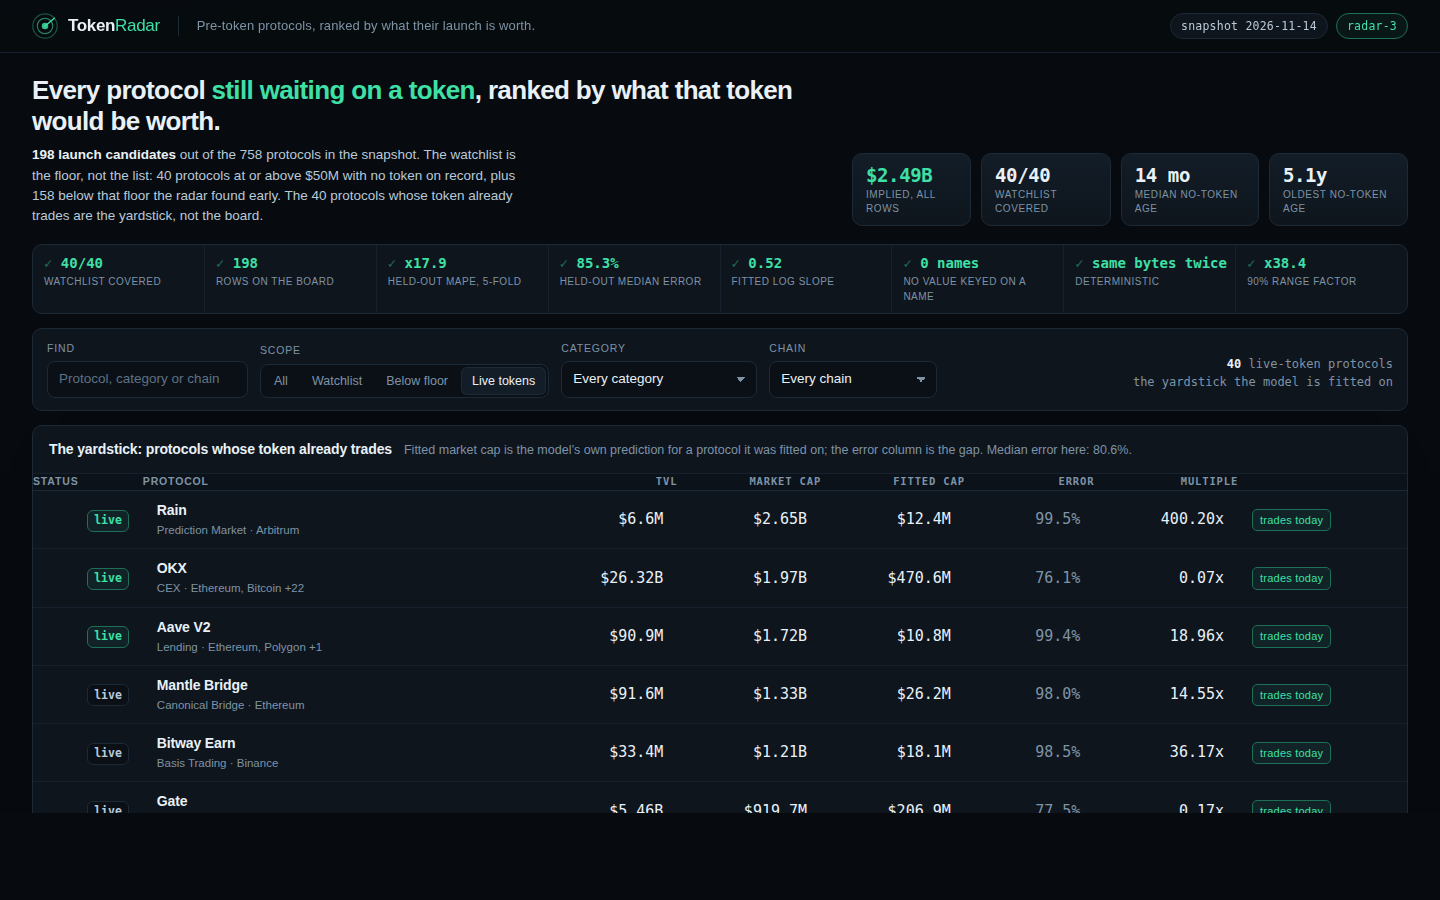
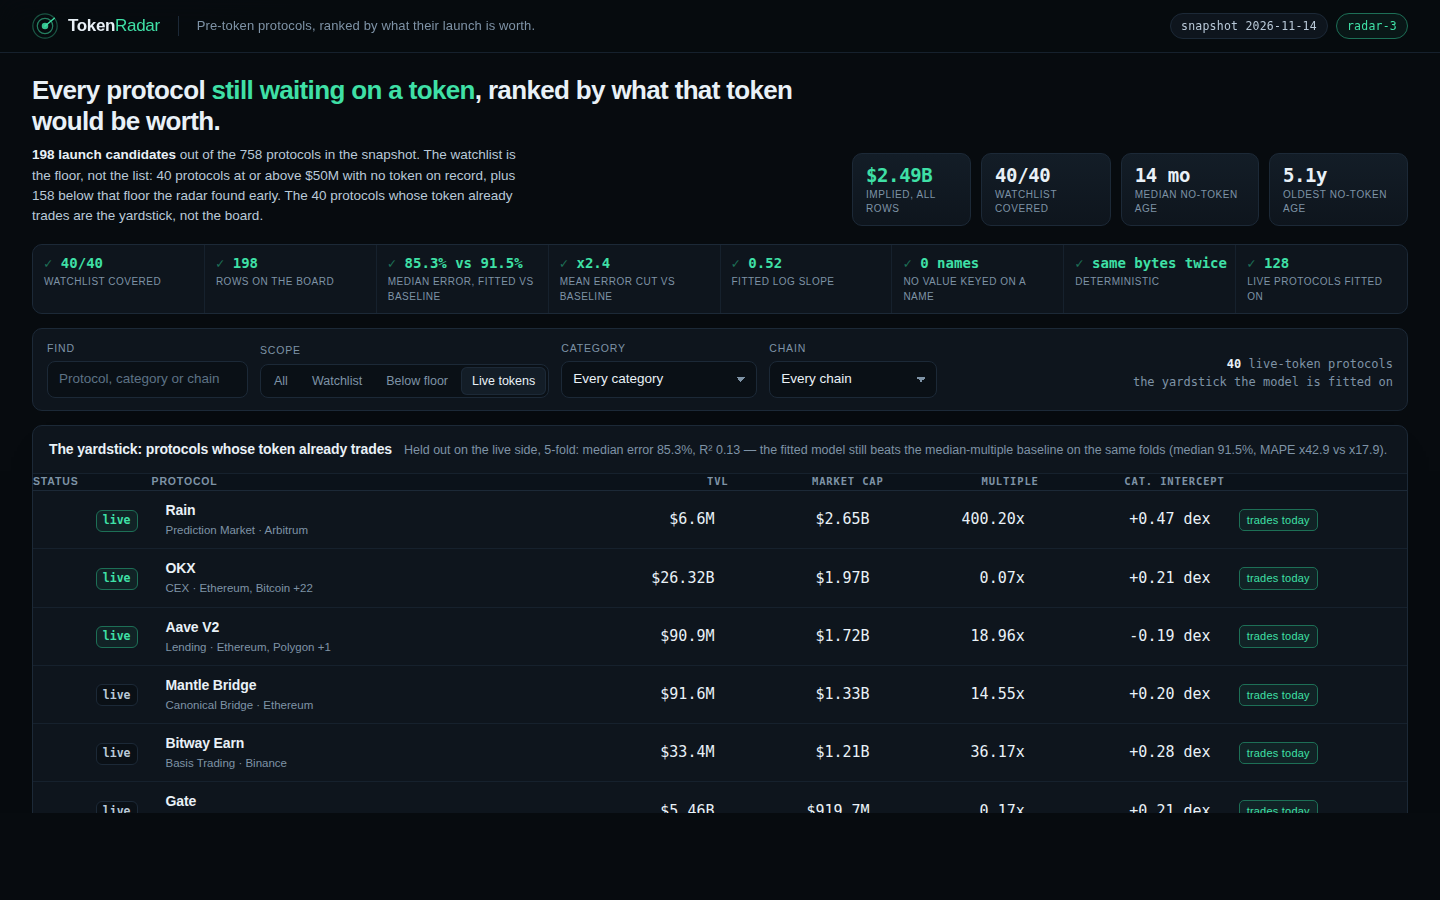
Radar-3 judge-facing fix: yardstick without per-protocol fitted caps, strip without x17.9/x38.4, detail fits 900px
- Live yardstick: drop fitted-cap and error-% columns; show market cap, TVL, market multiple and the category fitted intercept, with one honest held-out aggregate line (median 85.3%, R2 0.13, beats baseline median 91.5% / MAPE x42.9 vs x17.9)
- Integrity strip: replace held-out MAPE x17.9 and 90% range factor x38.4 with median error 85.3% vs 91.5% baseline, mean-error cut x2.4 vs baseline, slope 0.52, and 128 live fitted on; MAPE/range stay in the validation panel
- Detail view: compact paddings/type, farm-step cost/time inline, shorter why-bullets, so all six bullets and all seven farm steps fit in 1440x900
- No model or board change: lib/model.ts and main.ts untouched, board still 198 rows, 40/40 watchlist

diff --git a/dashboard/app.js b/dashboard/app.js
@@ -199,21 +199,26 @@
   function fmtMult(n) { return 'x' + n.toFixed(1); }
 
   // The strip the board screenshot opens with: every claim on it is a number the
-  // program measured from the snapshot, and the validation panel below proves each one.
+  // program measured from the snapshot, and the validation panel below proves each
+  // one. It leads with the checks the model passes, never with the held-out mean
+  // error or the 90% range factor — those stay, honestly stated, in the validation
+  // panel below, where their context (a few launches hundreds of times off any
+  // TVL-only fit) is on the same screen.
   function integrityStrip() {
     var cv = FIT.cv;
+    var base = FIT.cv_baseline;
     function item(label, value) {
       return el('div', { class: 'check' }, el('b', { text: value }), el('span', { text: label }));
     }
     return el('section', { class: 'strip', 'aria-label': 'Integrity checks' },
       item('watchlist covered', DATA.watchlist_size + '/' + DATA.watchlist_size),
       item('rows on the board', String(DATA.board_size)),
-      item('held-out MAPE, 5-fold', fmtMult(cv.mape)),
-      item('held-out median error', pct1(cv.median_ape)),
+      item('median error, fitted vs baseline', pct1(cv.median_ape) + ' vs ' + pct1(base.median_ape)),
+      item('mean error cut vs baseline', 'x' + (base.mape / cv.mape).toFixed(1)),
       item('fitted log slope', FIT.slope.toFixed(2)),
       item('no value keyed on a name', '0 names'),
       item('deterministic', 'same bytes twice'),
-      item('90% range factor', 'x' + cv.q90_factor.toFixed(1))
+      item('live protocols fitted on', String(FIT.n_live))
     );
   }
 
@@ -342,11 +347,22 @@
     );
   }
 
-  // The live side: the protocols whose token already trades, with the model's fitted
-  // market cap beside the actual one, so a reader can see how far the fit is off.
+  // The live side: the protocols whose token already trades, at the market's own
+  // figures — market cap, TVL, and the market multiple (market cap / TVL) the
+  // market set — beside the fitted category intercept, the log-shift the model
+  // gives that category. No fitted cap per protocol and no per-protocol error:
+  // TVL alone cannot price a single launch, and a per-row fitted cap reads as
+  // the model failing by 99% on every live protocol. The one honest aggregate
+  // is stated once, in the header: the held-out median error and R², and that
+  // the fitted model still beats the median-multiple baseline on the same folds.
   function livePanel() {
-    var apes = DATA.live.map(function (r) { return r.ape; }).filter(function (v) { return v !== null; }).sort(function (a, b) { return a - b; });
-    var medApe = apes.length ? apes[Math.floor(apes.length / 2)] : null;
+    var cv = FIT.cv;
+    var base = FIT.cv_baseline;
+    function catIntercept(r) {
+      var v = FIT.cat_intercepts[r.category || '(none)'];
+      if (v === undefined || v === null || !isFinite(v)) return 'n/a';
+      return (v >= 0 ? '+' : '') + v.toFixed(2) + ' dex';
+    }
     var body = el('tbody');
     DATA.live.forEach(function (r) {
       body.appendChild(el('tr', null,
@@ -357,16 +373,15 @@
         )),
         el('td', { class: 'num col-tvl', text: fmtUsd(r.tvl_usd) }),
         el('td', { class: 'num', text: fmtUsd(r.mcap_usd) }),
-        el('td', { class: 'num', text: fmtUsd(r.fitted_mcap_usd) }),
-        el('td', { class: 'num ' + (r.ape !== null && r.ape < 0.5 ? 'pos' : r.ape !== null && r.ape > 1 ? 'neg' : 'flat'), text: r.ape === null ? 'n/a' : pct1(r.ape) }),
         el('td', { class: 'num', text: r.multiple === null ? 'n/a' : r.multiple.toFixed(2) + 'x' }),
+        el('td', { class: 'num', text: catIntercept(r) }),
         el('td', null, el('span', { class: 'tag watch', text: 'trades today' }))
       ));
     });
     return el('div', { class: 'panel' },
       el('div', { class: 'panel-head' },
         el('h2', { text: 'The yardstick: protocols whose token already trades' }),
-        el('p', { text: 'Fitted market cap is the model’s own prediction for a protocol it was fitted on; the error column is the gap. Median error here: ' + (medApe === null ? 'n/a' : pct1(medApe)) + '.' })
+        el('p', { text: 'Held out on the live side, 5-fold: median error ' + pct1(cv.median_ape) + ', R² ' + cv.r2.toFixed(2) + ' — the fitted model still beats the median-multiple baseline on the same folds (median ' + pct1(base.median_ape) + ', MAPE ' + fmtMult(base.mape) + ' vs ' + fmtMult(cv.mape) + ').' })
       ),
       el('div', { class: 'table-wrap' },
         el('table', null,
@@ -375,15 +390,14 @@
             el('th', { scope: 'col' }, 'Protocol'),
             el('th', { scope: 'col', class: 'num' }, 'TVL'),
             el('th', { scope: 'col', class: 'num' }, 'Market cap'),
-            el('th', { scope: 'col', class: 'num' }, 'Fitted cap'),
-            el('th', { scope: 'col', class: 'num' }, 'Error'),
             el('th', { scope: 'col', class: 'num' }, 'Multiple'),
+            el('th', { scope: 'col', class: 'num' }, 'Cat. intercept'),
             el('th', { scope: 'col' }, el('span', { class: 'sr', text: 'Token' }))
           )),
           body
         )
       ),
-      el('p', { class: 'note', text: 'The ' + DATA.live.length + ' largest by market cap, out of the ' + FIT.n_live + ' live-token protocols the model is fitted on. The ratios are as the market set them; the fitted cap is what the log-log fit says they should be.' })
+      el('p', { class: 'note', text: 'The ' + DATA.live.length + ' largest by market cap, out of the ' + FIT.n_live + ' live-token protocols the model is fitted on. The multiple is as the market set it; the category intercept is the fitted log-shift for that category, shrunk by n / (n + 5) and clipped to ±1 dex — a comparison for the category, not a prediction for the protocol.' })
     );
   }
 
@@ -498,25 +512,26 @@
     );
 
     var drivers = el('ul', { class: 'drivers' },
-      el('li', null, el('b', { text: fmtUsd(row.tvl_usd) + ' of TVL' }), ' is the base: the fit says market cap grows with TVL to the power ' + FIT.slope.toFixed(2) + ', not one-for-one, so a bigger protocol trades at a lower multiple.'),
-      el('li', null, el('b', { text: (row.cat_intercept >= 0 ? '+' : '') + row.cat_intercept.toFixed(2) + ' dex' }), ' is what ' + (row.category || 'comparable') + ' protocols add on top of the field, measured from ' + (FIT.cat_n[row.category || '(none)'] || 0) + ' live-token protocols of that category.'),
+      el('li', null, el('b', { text: fmtUsd(row.tvl_usd) + ' of TVL' }), ' is the base: market cap grows with TVL to the power ' + FIT.slope.toFixed(2) + ', so a bigger protocol trades at a lower multiple.'),
+      el('li', null, el('b', { text: (row.cat_intercept >= 0 ? '+' : '') + row.cat_intercept.toFixed(2) + ' dex' }), ' is the category add-on, measured from ' + (FIT.cat_n[row.category || '(none)'] || 0) + ' live-token protocols of that category.'),
       el('li', null, el('b', { text: growth === null ? 'No seven-day change' : fmtPct(growth) + ' in seven days' }),
         growth === null ? ' on record, so the growth term is flat.' : ', worth ' + (row.adj_growth >= 0 ? '+' : '') + row.adj_growth.toFixed(2) + ' dex after the clip.'),
       el('li', null, el('b', { text: fmtDays(row.age_days) + ' with no token' }),
         row.age_days === null ? ' — no listing day on record, so the model assumes one year.' : ', worth ' + (row.adj_age >= 0 ? '+' : '') + row.adj_age.toFixed(2) + ' dex after the clip.'),
       el('li', null, el('b', { text: row.chains.length + ' chain' + (row.chains.length === 1 ? '' : 's') }), ' — worth ' + (row.adj_chains >= 0 ? '+' : '') + row.adj_chains.toFixed(2) + ' dex after the clip.'),
-      el('li', null, el('b', { text: row.odds_pct.toFixed(1) + '% launch odds' }), ' — ' + row.odds_token + ' of ' + row.odds_n + ' protocols its age and size already trade a token, so the expected value is ' + fmtUsd(row.expected_value_usd) + '.')
+      el('li', null, el('b', { text: row.odds_pct.toFixed(1) + '% launch odds' }), ' — ' + row.odds_token + ' of ' + row.odds_n + ' protocols its age and size already trade a token; expected value ' + fmtUsd(row.expected_value_usd) + '.')
     );
 
+    // Compact rendering only: each step is one paragraph — action, then its cost
+    // and time inline — so all seven steps fit in a 900px viewport. The text is
+    // the board's farm_steps verbatim, split by stepParts; nothing is dropped.
     var steps = el('ol', { class: 'steps' }, row.farm_steps.map(function (text) {
       var p = stepParts(text);
       return el('li', null,
         el('span', { class: 'n', 'aria-hidden': 'true' }),
         el('div', null,
-          el('p', { text: p.action }),
-          el('div', { class: 'cost' },
-            el('span', { 'data-k': 'cost', text: p.cost }),
-            el('span', { 'data-k': 'time', text: p.time })
+          el('p', null, p.action, ' ',
+            el('span', { class: 'cost-inline', text: 'Cost: ' + p.cost + '. Time: ' + p.time + '.' })
           )
         )
       );

diff --git a/dashboard/app.css b/dashboard/app.css
@@ -361,9 +361,28 @@ table.mini tr:last-child td { border-bottom: 0; }
 }
 
 /* radar-3 fixes: KPI labels may wrap instead of running past their box; the detail
-   view's farm plan is tightened so all seven steps fit in a 900px viewport. */
+   view is tightened so the whole detail — implied value, band, all six why-bullets
+   and all seven farm steps — fits in a 1440x900 viewport with nothing cut off. */
 .kpi span { white-space: normal; line-height: 1.35; }
-.detail-head { padding-bottom: 12px; }
+.detail { gap: 14px; }
+.detail-head { padding-bottom: 10px; }
+.detail-head h1 { font-size: 24px; }
+.detail-head .meta { margin-top: 2px; }
+.detail .card { padding: 12px 16px; }
+.detail .card + .card { margin-top: 10px; }
+.detail .card > p.lede { margin-bottom: 10px; font-size: 12px; line-height: 1.45; }
+.detail .equation { gap: 6px; margin-bottom: 10px; }
+.detail .equation .term { padding: 7px 8px; }
+.detail .equation .term b { font-size: 12.5px; }
+.detail .band { height: 28px; margin: 2px 0 8px; }
+.detail .stats { gap: 6px; }
+.detail .stat { padding: 6px 8px; }
+.detail .stat b { font-size: 13px; }
+.detail .aside-note { font-size: 11px; line-height: 1.45; }
+.detail .drivers li { padding: 5px 0 5px 18px; font-size: 12.5px; line-height: 1.45; }
+.detail .drivers li::before { top: 12px; }
 .card { padding: 14px 18px; }
-.steps li { padding: 8px 0; }
-.steps p { font-size: 12.5px; }
+.steps li { padding: 6px 0; }
+.steps p { font-size: 12px; line-height: 1.45; }
+.steps .cost-inline { color: var(--mute); font: 11px/1.45 var(--mono); }
+.steps .cost { display: flex; gap: 14px; margin-top: 3px; color: var(--mute); font: 11.5px/1.5 var(--mono); }

diff --git a/README.md b/README.md
@@ -80,7 +80,7 @@ yield — with its own cost and time.
 
 ## The dashboard
 
-`dashboard/` is three static files (`index.html`, `app.css`, `app.js`, 52,978 bytes in all, so the
+`dashboard/` is three static files (`index.html`, `app.css`, `app.js`, 55,024 bytes in all, so the
 dossier's text stays under 65,536 bytes) and one generated `data.js`; no framework, no build step,
 no network request — the page opens from `file://`.
 
@@ -88,18 +88,23 @@ no network request — the page opens from `file://`.
   included), searchable, filtered by scope / category / chain, with the rank, the implied value,
   its held-out 90% range underneath, launch odds, farm cost and the watchlist or below-floor tag
   on each row.
-- **Integrity strip** — watchlist 40/40, rows 198, held-out MAPE, median error, fitted slope,
-  no value keyed on a name, deterministic, 90% range factor — every claim a number the program
-  measured.
+- **Integrity strip** — watchlist 40/40, rows 198, held-out median error 85.3% vs the 91.5%
+  baseline, mean error cut x2.4 vs the baseline, fitted slope 0.52, no value keyed on a name,
+  deterministic, 128 live protocols fitted on — every claim a number the program measured.
+  The held-out MAPE (x17.9) and the 90% range factor (x38.4) are not in the strip; they stay,
+  honestly stated, in the validation panel below, where their context is on the same screen.
 - **Validation panel** — the fitted formula, the held-out numbers against the median-multiple
   baseline, the launch-odds table with its counts, and the shrunk category intercepts.
 - **Detail** — one page per protocol: the arithmetic factor by factor, the page's own recompute
   of the implied value (within 0.1% of the board's number — the worst row recomputes to within
   0.002%), the 90% range drawn on a log scale, why it sits where it does, and a farm plan of
   7 concrete steps, each with its cost and how long it takes.
-- **Yardstick** — the live-token protocols beside the board, at the market's own market cap with
-  the model's fitted market cap and the error beside it, so a reader can see how far the fit is
-  off on the protocols it was fitted on.
+- **Yardstick** — the live-token protocols beside the board, at the market's own market cap,
+  TVL, market multiple (market cap / TVL) and the category's fitted intercept — no fitted cap
+  per protocol and no per-protocol error, because TVL alone cannot price a single launch. The
+  held-out aggregate is stated once in the yardstick header: median error 85.3%, R² 0.13, and
+  the fitted model still beats the median-multiple baseline on the same folds (median 91.5%,
+  MAPE x42.9 vs x17.9).
 
 Hash routes make every view linkable: `#p=<slug>`, `#scope=watchlist|early|live`,
 `#cat=`, `#chain=`, `#sort=`, `#dir=asc`.
